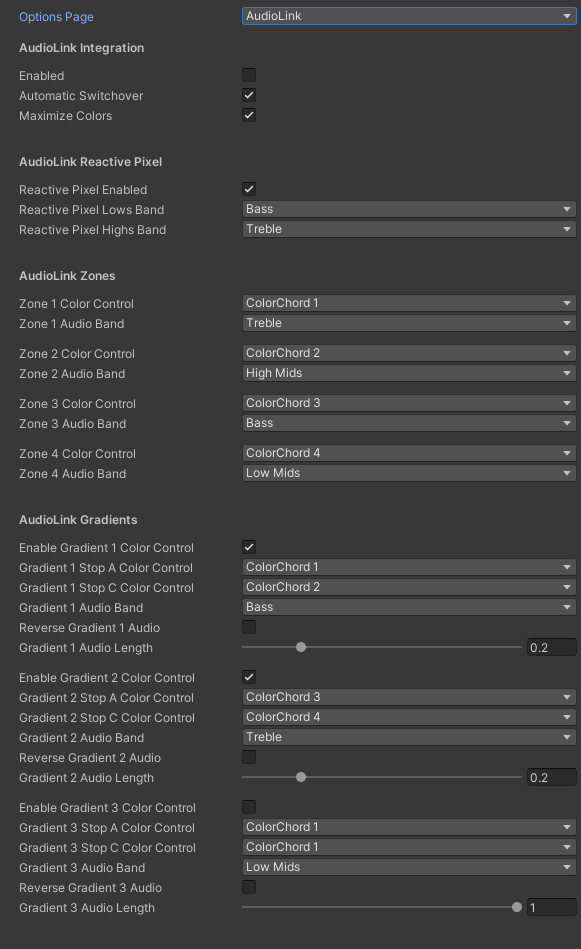
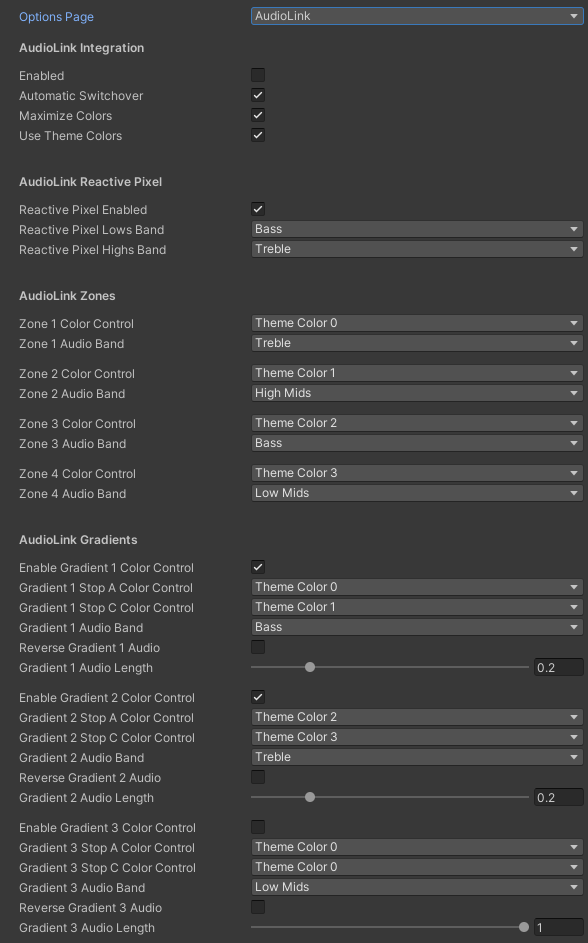
Add Aqua Shader support, add AudioLink Theme Colors.

diff --git a/src/LumaDriver/Scripts/Editor/LumaDriver_GUI.cs b/src/LumaDriver/Scripts/Editor/LumaDriver_GUI.cs
@@ -68,37 +68,69 @@ public class LumaDriver_GUI : ShaderGUI
         ShowProperty("_ALOverride");
         ShowProperty("_ALAutomatic");
         ShowProperty("_ALMaximize");
+        MaterialProperty _ALThemes = FindProperty("_ALThemes", properties);
+        editor.ShaderProperty(_ALThemes, _ALThemes.displayName);
 
         ShowProperty("_ALReactivePixel");
         ShowProperty("_ReactiveBandLows");
         ShowProperty("_ReactiveBandHighs");
 
-        ShowProperty("_ALccZ1");
+        if (_ALThemes.floatValue == 0)
+            ShowProperty("_ALccZ1");
+        else
+            ShowProperty("_ALttZ1");
         ShowProperty("_BandZ1");
-        ShowProperty("_ALccZ2");
+        if (_ALThemes.floatValue == 0)
+            ShowProperty("_ALccZ2");
+        else
+            ShowProperty("_ALttZ2");
         ShowProperty("_BandZ2");
-        ShowProperty("_ALccZ3");
+        if (_ALThemes.floatValue == 0)
+            ShowProperty("_ALccZ3");
+        else
+            ShowProperty("_ALttZ3");
         ShowProperty("_BandZ3");
-        ShowProperty("_ALccZ4");
+        if (_ALThemes.floatValue == 0)
+            ShowProperty("_ALccZ4");
+        else
+            ShowProperty("_ALttZ4");
         ShowProperty("_BandZ4");
 
         ShowProperty("_ALccG1");
-        ShowProperty("_ALccG1StopA");
-        ShowProperty("_ALccG1StopC");
+        if (_ALThemes.floatValue == 0)  {
+            ShowProperty("_ALccG1StopA");
+            ShowProperty("_ALccG1StopC");
+        }
+        else {
+            ShowProperty("_ALttG1StopA");
+            ShowProperty("_ALttG1StopC");
+        }
         ShowProperty("_BandG1");
         ShowProperty("_BandG1Reverse");
         ShowProperty("_BandG1Length");
 
         ShowProperty("_ALccG2");
-        ShowProperty("_ALccG2StopA");
-        ShowProperty("_ALccG2StopC");
+        if (_ALThemes.floatValue == 0)  {
+            ShowProperty("_ALccG2StopA");
+            ShowProperty("_ALccG2StopC");
+        }
+        else {
+            ShowProperty("_ALttG2StopA");
+            ShowProperty("_ALttG2StopC");
+        }
         ShowProperty("_BandG2");
         ShowProperty("_BandG2Reverse");
         ShowProperty("_BandG2Length");
 
         ShowProperty("_ALccG3");
-        ShowProperty("_ALccG3StopA");
-        ShowProperty("_ALccG3StopC");
+        if (_ALThemes.floatValue == 0)  {
+            ShowProperty("_ALccG3StopA");
+            ShowProperty("_ALccG3StopC");
+        }
+        else {
+            ShowProperty("_ALttG3StopA");
+            ShowProperty("_ALttG3StopC");
+        }
         ShowProperty("_BandG3");
         ShowProperty("_BandG3Reverse");
         ShowProperty("_BandG3Length");

diff --git a/README.md b/README.md
@@ -1,6 +1,10 @@
 # LumaDriver
 
-The world-side [Furality Luma Glow Shader](https://furality.org/lumaglow) and [Furality Legendary Shader](https://furality.org/legendaryshader) support you have been waiting for! Built up from scratch, inspired by workings of [AudioLink](https://github.com/llealloo/vrc-udon-audio-link).
+An unofficial VRChat world-side plugin designed to drive the various [Furality](https://furality.org/) shaders. Built up from scratch and inspired by workings of [AudioLink](https://github.com/llealloo/vrc-udon-audio-link). Capable of powering the following:
+
+* [Furality Luma Glow Shader](https://furality.org/lumaglow)
+* [Furality Legendary Shader](https://furality.org/legendaryshader)
+* [Furality Aqua Shader](https://furality.org/aqua-shader-info)
 
 **NOTE: This project is a derivative work and is not part of Furality Online Xperience or created by Furality, Inc.**
 
@@ -8,9 +12,9 @@ A live demo is available in the [Luminescent Ledge](https://vrchat.com/home/worl
 
 ## Features
 * Four Luma Glow / Hero and Villain zones for the respective shaders.
-* Three gradients for Legendary Shader.
-* Audio Reactivity for Legendary Shader.
-* AudioLink integration, using ColorChord and bands to control the glow.
+* Three gradients for Legendary and Aqua Shader.
+* Audio Reactivity for Legendary and Aqua Shader.
+* AudioLink integration, using Theme Colors and ColorChord for controlling the colors and bands to control the flashing.
 * VR Stage Lighting (VRSL) integration, with a dedicated fixture definition.
 * Possibility to set custom colors using Udon.
 * Debug functionalities.
@@ -18,7 +22,7 @@ A live demo is available in the [Luminescent Ledge](https://vrchat.com/home/worl
 
 **Requires:** [AudioLink](https://github.com/llealloo/vrc-udon-audio-link) v0.2.6+ for the integration to properly function.
 
-**Optional:** [VR Stage Lighting](https://github.com/AcChosen/VR-Stage-Lighting) v1.10+ for DMX functionality.
+**Optional:** [VR Stage Lighting](https://github.com/AcChosen/VR-Stage-Lighting) v1.10+ for DMX functionality. (NOTE: Currently doesn't support horizontal layout.)
 
 ## Usage
 1. Import the Unity package.
@@ -64,7 +68,7 @@ This page allows for adjusting the behavior of idle animations. These are the sl
 
 ![alt text](https://raw.githubusercontent.com/Thorinair/LumaDriver/master/img/LumaDriverUI_2.png "LumaDriver AudioLink")
 
-This page allows for adjusting the way how [AudioLink](https://github.com/llealloo/vrc-udon-audio-link) interfaces with the driver. All Color Control options can use AudioLink's ColorChord feature in order to have interesting and dynamic colors when music is playing. In order to enable AudioLink integration, follow the steps:
+This page allows for adjusting the way how [AudioLink](https://github.com/llealloo/vrc-udon-audio-link) interfaces with the driver. All Color Control options can use either AudioLink's Theme Colors or ColorChord feature in order to have interesting and dynamic colors when music is playing. In order to enable AudioLink integration, follow the steps:
 
 1. Import AudioLink package and set it up in the world following official instructions.
 2. Check the **Enabled** checkbox on AudioLink page in LumaDriver's configuration.
@@ -73,15 +77,16 @@ Below are explanations for different configuration options:
 
 * **Enabled** - Enables AudioLink integration.
 * **Automatic Switchover** - Monitors the audio throughput in AudioLink in order to decide whether idle animations should be playing instead when there is no audio.
-* **Maximize Colors** - Increases the intensity of ColorChord generated colors.
+* **Maximize Colors** - Maximizes the intensity of Theme Colors and ColorChord generated colors.
+* **Use Theme Colors** - Enables the usage of AudioLink Theme Colors for all Color Control options. Themes can be customized programatically on AudioLink or adjusted directly on the AudioLink Controller. By default, Theme Colors act as ColorChord. Disabling this option **forces** ColorChord instead.
 * **Reactive Pixel Enabled** - Enables the AudioLink integration with the Legendary Shader Audio Reactivity features.
 * **Reactive Pixel Lows Band** - Defines AudioLink band to use for the Lows audio reactivity.
 * **Reactive Pixel Highs Band** - Defines AudioLink band to use for the Highs audio reactivity.
-* **Zone X Color Control** - Defines source of colors for the zone. Can be either the idle animation or one of the ColorChord colors.
+* **Zone X Color Control** - Defines source of colors for the zone. Can be the idle animation, a Theme Color, or one of the ColorChord colors.
 * **Zone X Audio Band** - Defines AudioLink band to use for the zone.
-* **Enable Gradient X Color Control** - Enables the ColorChord control of the gradient.
-* **Gradient X Stop A Color Control** - Defines ColorChord source for the first color stop.
-* **Gradient X Stop C Color Control** - Defines ColorChord source for the end color stop.
+* **Enable Gradient X Color Control** - Enables the Theme Color or ColorChord control of the gradient.
+* **Gradient X Stop A Color Control** - Defines Theme Color or ColorChord source for the first color stop.
+* **Gradient X Stop C Color Control** - Defines Theme Color or ColorChord source for the end color stop.
 * **Gradient X Audio Band** - Defines AudioLink band to use for the gradient.
 * **Reverse Gradient X Audio** - Reverses the animation of the AudioLink flowing animation on the gradient.
 * **Gradient X Audio Length** - Shortens or lengthens the AudioLink flowing animation on the gradient.
@@ -155,7 +160,7 @@ Below is a table which lists locations of individual pixels and gradients, along
 
 | Data | Location | Channels | Description |
 | ---- | -------- | -------- | ----------- |
-| **Luma ON** | `0.629, 0.511` | Red | Controls whether old Luma Glow Shader is running. Always 255 red. |
+| **Luma ON** | `0.629, 0.511` | Red | Controls whether old Luma Glow Shader and Aqua Shader are running. Always 255 red. |
 | **Zone 1 (Heros 1)** | `0.856, 0.522` | RGB | Applies color for the Luma Glow Zone 1. Also counts as Heros 1. |
 | **Zone 2 (Villains 1)** | `0.856, 0.507` | RGB | Applies color for the Luma Glow Zone 2. Also counts as Villains 1. |
 | **Zone 3 (Heros 2)** | `0.864, 0.522` | RGB | Applies color for the Luma Glow Zone 3. Also counts as Heros 2. |
